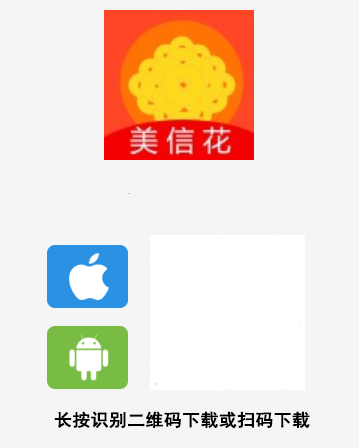
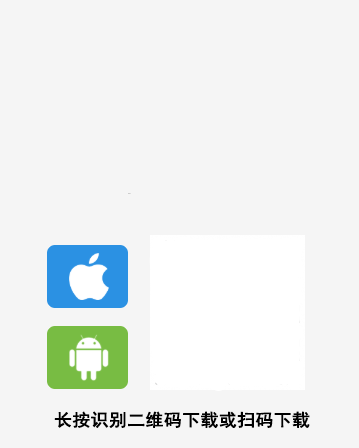
fix img

Changed region(s): [[0.2758, 0.0, 0.7047, 0.375]]

diff --git a/App/Tpl/Admin/Admin_invitation.html b/App/Tpl/Admin/Admin_invitation.html
@@ -23,6 +23,7 @@
                 二维码(注册并绑定管理员)：<br>
                 <span style="position: absolute;color: black;font-weight: 500;margin-top: 189px;margin-left: 130px;">{:C('cfg_bank')}</span>
                 <img style="position: absolute;margin-top: 240px;margin-left: 150px;width: 155px;" src="/Public/images/{:$img_url}">
+                <img src="/Public/home/images/6b04b2f21d28ee5a9c211edf756486e6.png" width="150" style="position: absolute;margin-left: 100px;margin-top: 25px;">
                 <img src="/Public/images/invite_pictures.png">
             </div>
         </td>
@@ -30,6 +31,7 @@
             <div style="width:700px;margin:0 auto;color:#fff;font-size:25px;margin-top:50px;text-align:center;">
                 纯APP下载二维码：<br>
                 <span style="position: absolute;color: black;font-weight: 500;margin-top: 189px;margin-left: 130px;">{:C('cfg_bank')}</span>
+                <img src="/Public/home/images/6b04b2f21d28ee5a9c211edf756486e6.png" width="150" style="position: absolute;margin-left: 100px;margin-top: 25px;">
                 <img src="/Public/images/download_pictures.png">
             </div>
         </td>
